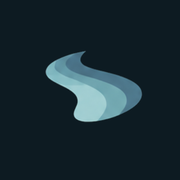
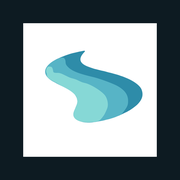
Adopt the v1 asset kit the honest way
The kit's SVGs are machine traces of the same 175 px concept — angular,
gapped, unusable at hero size (three-way comparison in the session
notes). What the kit DOES settle is color: the true glacials are
#2E8CA9 / #57B4C6 / #86D8D6. So: the smooth-traced silhouette stays,
recolored to the kit's tokens; site accents and favicons follow.
Real hand-drawn vector artwork remains the endgame.

diff --git a/index.html b/index.html
@@ -12,8 +12,8 @@
 <link rel="stylesheet" href="https://fonts.googleapis.com/css2?family=Geist:wght@300;400;500;600&display=swap">
 <style>
   :root{
-    --yoho-ink:#0D1B22; --yoho-slate:#18313D; --yoho-glacial-deep:#2F7185;
-    --yoho-glacial:#5FB7C5; --yoho-ice:#9ADDE0; --yoho-snow:#F4F2EC;
+    --yoho-ink:#0D1B22; --yoho-slate:#18313D; --yoho-glacial-deep:#2E8CA9;
+    --yoho-glacial:#57B4C6; --yoho-ice:#86D8D6; --yoho-snow:#F4F2EC;
     --yoho-white:#FFFFFF; --yoho-mist:#9AAAB0;
     --ink-line:rgba(154,170,176,.18); --snow-line:rgba(13,27,34,.12);
     --snow-ink:#0D1B22; --snow-mist:#5B6B71;
@@ -67,7 +67,7 @@
   }
   .hero-glow{
     position:absolute; right:-8%; top:8%; width:56%; aspect-ratio:1;
-    background:radial-gradient(closest-side, rgba(47,113,133,.30), rgba(47,113,133,0) 70%);
+    background:radial-gradient(closest-side, rgba(46,140,169,.30), rgba(46,140,169,0) 70%);
     pointer-events:none;
   }
   @media (prefers-reduced-motion: no-preference){
@@ -79,7 +79,7 @@
   .hero .mark{
     width:100%; max-width:440px; height:auto; display:block;
     justify-self:center;
-    filter:drop-shadow(0 24px 60px rgba(95,183,197,.14));
+    filter:drop-shadow(0 24px 60px rgba(87,180,198,.14));
   }
   h1{
     font-size:clamp(40px, 5.4vw, 72px); font-weight:500; line-height:1.04;
@@ -136,7 +136,7 @@
   .about strong{color:var(--yoho-white); font-weight:500}
   .contact-line{font-size:18px}
   .contact-line a{
-    color:var(--yoho-glacial); text-decoration:none; border-bottom:1px solid rgba(95,183,197,.45);
+    color:var(--yoho-glacial); text-decoration:none; border-bottom:1px solid rgba(87,180,198,.45);
     padding-bottom:2px; transition:color .2s ease, border-color .2s ease;
   }
   .contact-line a:hover{color:var(--yoho-ice); border-color:var(--yoho-ice)}
